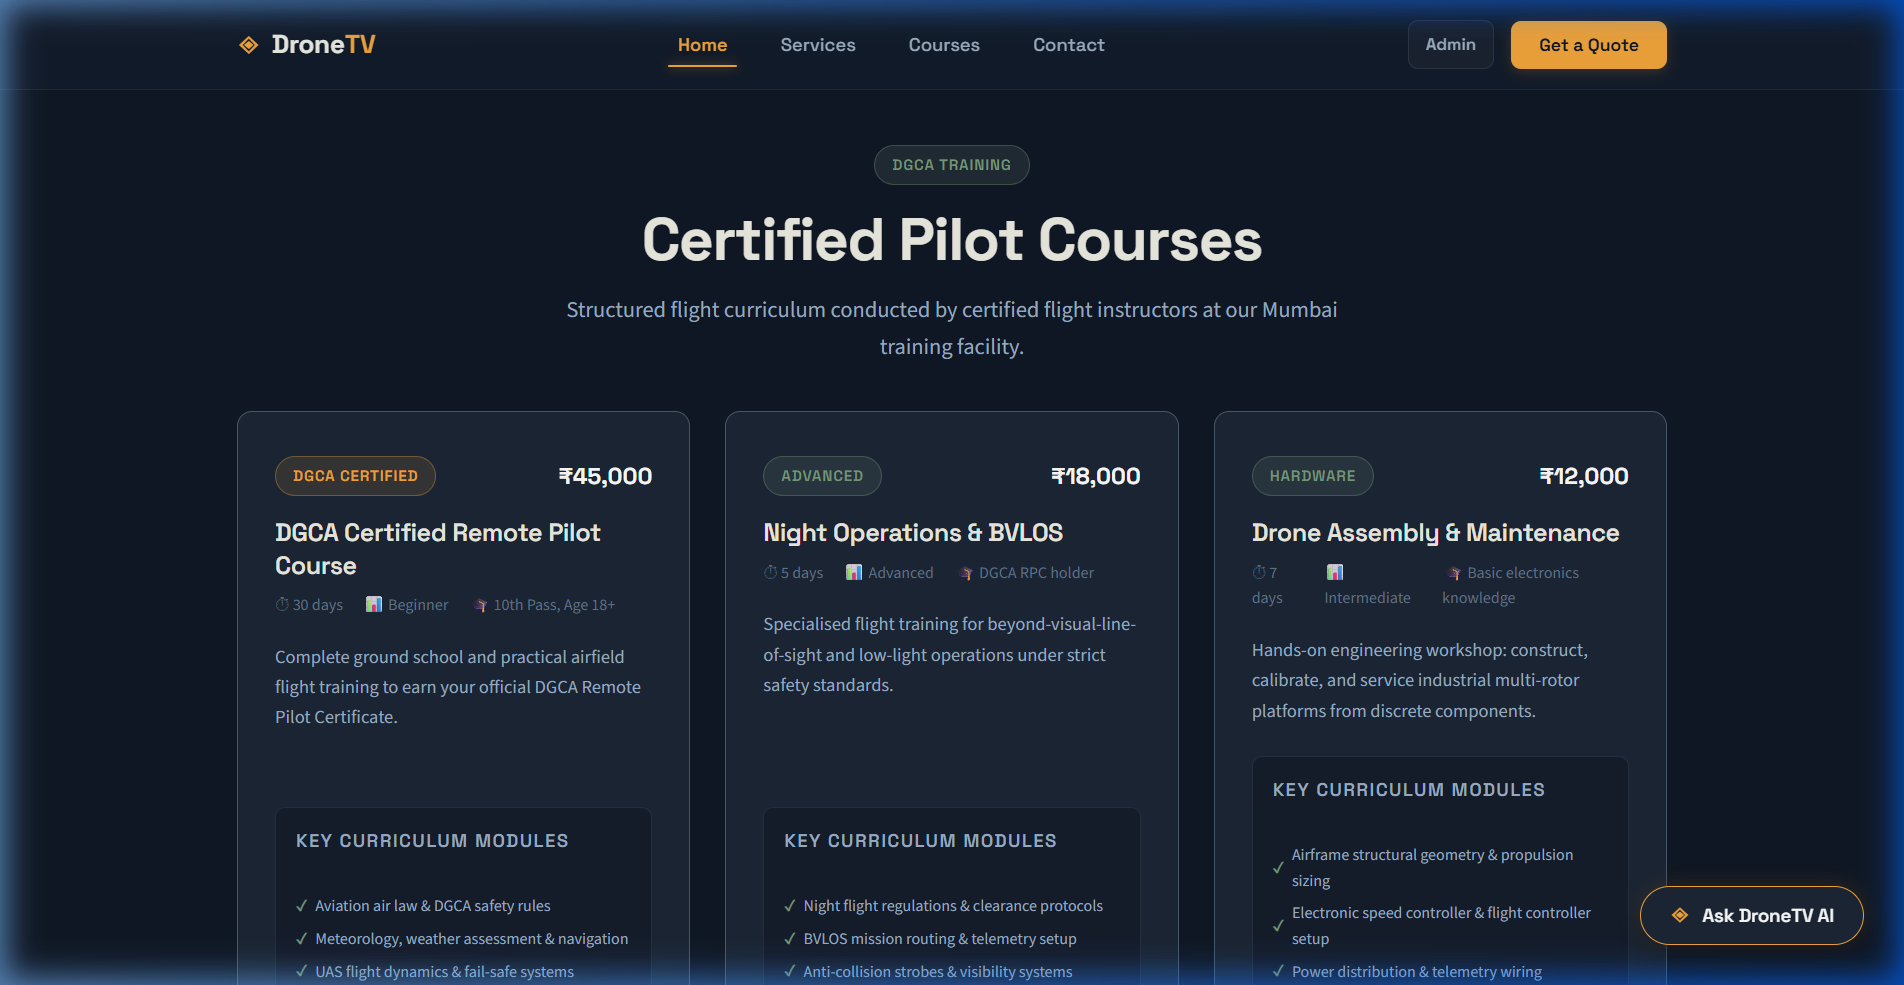
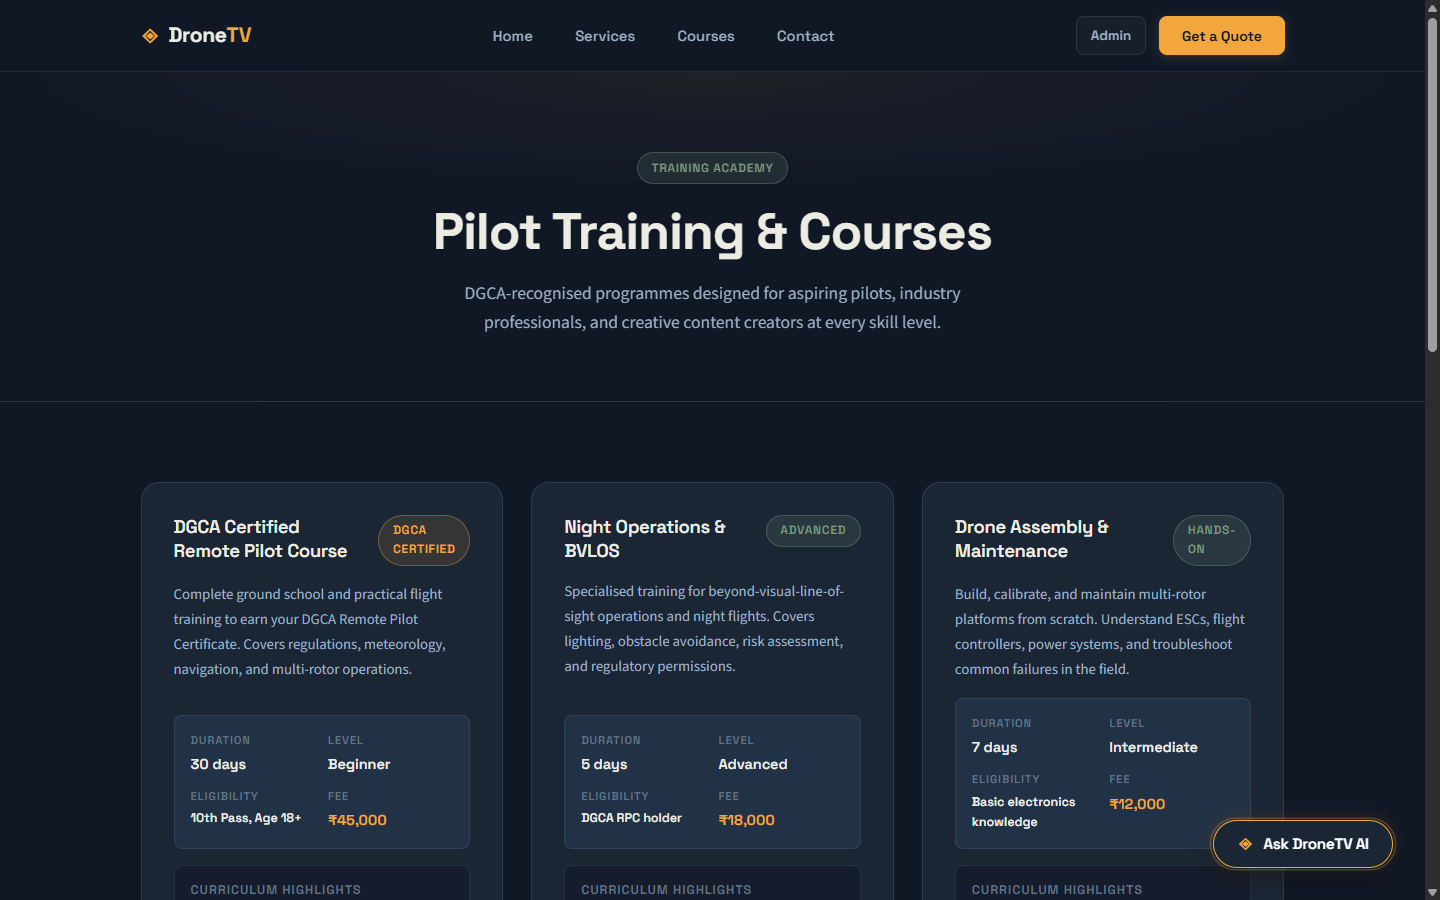
docs: replace services and courses screenshots with clean borderless captures showing Admin in navbar

diff --git a/frontend/src/pages/courses.tsx b/frontend/src/pages/courses.tsx
@@ -141,9 +141,8 @@ export default function Courses() {
           <motion.div 
             className="courses-page-grid"
             variants={containerVariants}
-            initial="hidden"
-            whileInView="visible"
-            viewport={{ once: true, amount: 0.1 }}
+            initial="visible"
+            animate="visible"
           >
             {COURSES.map(c => (
               <motion.div 

diff --git a/frontend/src/pages/services.tsx b/frontend/src/pages/services.tsx
@@ -91,9 +91,8 @@ export default function Services() {
           <motion.div 
             className="services-list"
             variants={containerVariants}
-            initial="hidden"
-            whileInView="visible"
-            viewport={{ once: true, amount: 0.1 }}
+            initial="visible"
+            animate="visible"
           >
             {SERVICES.map(s => (
               <motion.div 
